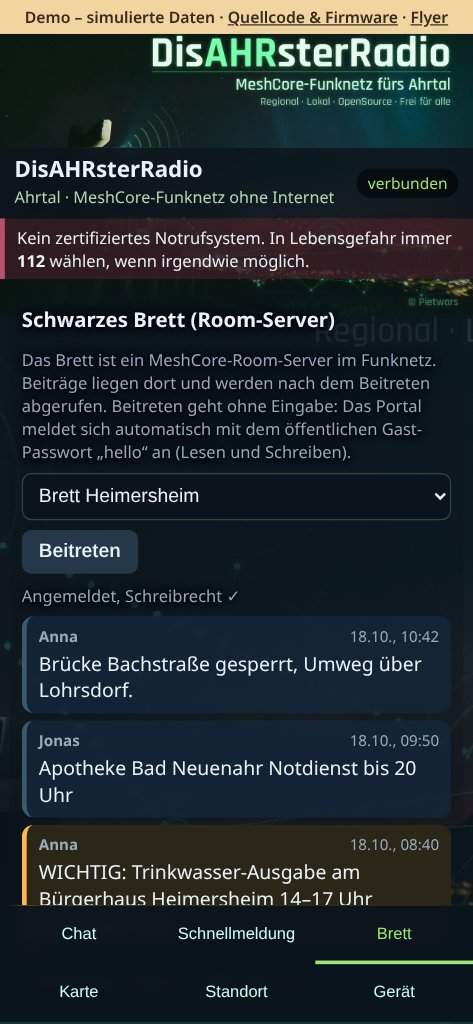
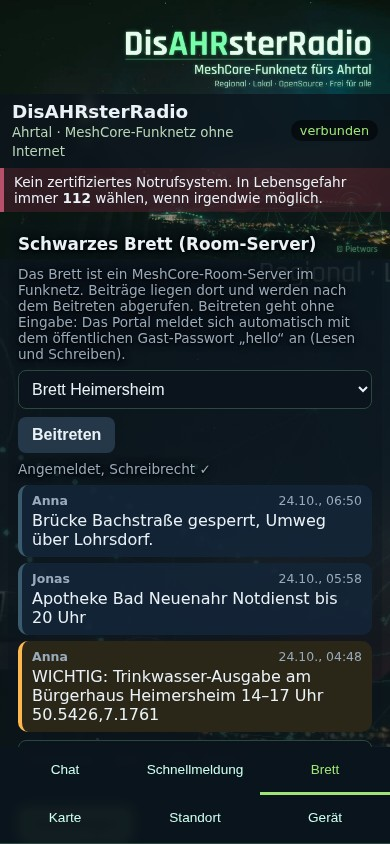
Finalize all current portal images and record successful release candidate checks

diff --git a/docs/RELEASE-0.9.6.md b/docs/RELEASE-0.9.6.md
@@ -22,3 +22,14 @@ Vollständige SOS-Zustandsmaschine, vollständiges Recovery und signierte Update
 Nur die ausdrücklich passende Variante wählen. Update: firmware.bin an 0x10000 ohne Löschen; Factory-Abbild an 0x0 nach vollständigem Löschen (Datenverlust). Vorher Identität, Kontakte und Einstellungen sichern. Prüfsummen und Speicherberichte befinden sich in den Release-ZIPs, Standalone enthält zusätzlich candidate.json mit Commit und Firmware-SHA-256.
 
 Die Vorschauen zeigen aktuelle Firmware-Layouts mit Demodaten, keine Hardwareaufnahmen. Vorherige positive Tests von 0.9.5 gelten nicht als Abnahme dieser Version. Hosttests und alle drei Firmware-Builds werden vor der Veröffentlichungsentscheidung separat geprüft. Der bestehende Release-Workflow selbst bleibt unverändert.
+
+## Software-Nachweise zum Kandidaten
+
+Firmware und Tests aus Commit `470ebdb016d9b9e00e3265721501288cb375a6b4`:
+
+- [Release-Probelauf mit allen drei Paketen und abschließender Paketprüfung](https://github.com/Pietwars/DisAHRsterRadio-MeshCore/actions/runs/40075542323): erfolgreich.
+- [Vollständige 0.9.6-Hosttests, beide T-Deck-Targets und Room-Server](https://github.com/Pietwars/DisAHRsterRadio-MeshCore/actions/runs/40075542317): alle zugehörigen Jobs erfolgreich.
+- [Web-/Versions-/Karten-/Speicher-/Vorschauprüfungen](https://github.com/Pietwars/DisAHRsterRadio-MeshCore/actions/runs/40075542344).
+- [Zugriffs-Regressionen](https://github.com/Pietwars/DisAHRsterRadio-MeshCore/actions/runs/40075542439): erfolgreich.
+
+Die abschließende Aktualisierung der sechs Web-Funktionsbilder ändert keinen Firmware-Code. Ihre Herkunft und Prüfsummen stehen in `docs/images/web-preview-manifest.json`. Die Veröffentlichung verwendet den bestehenden Release-Workflow unverändert. Web-Flasher-Konfiguration erst anhand der tatsächlich veröffentlichten ZIP-Dateien aktivieren, damit die SHA-256-Werte exakt zu den Downloads passen.
